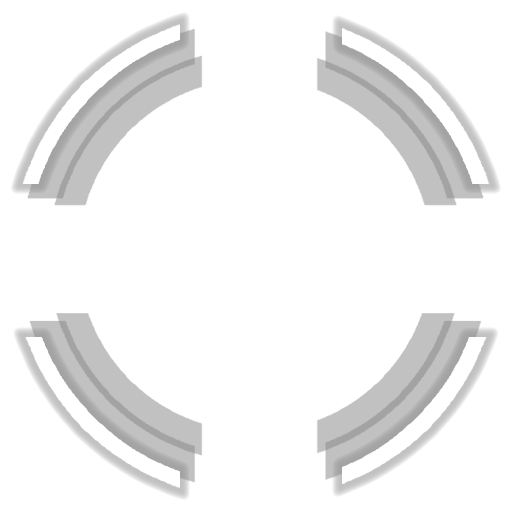
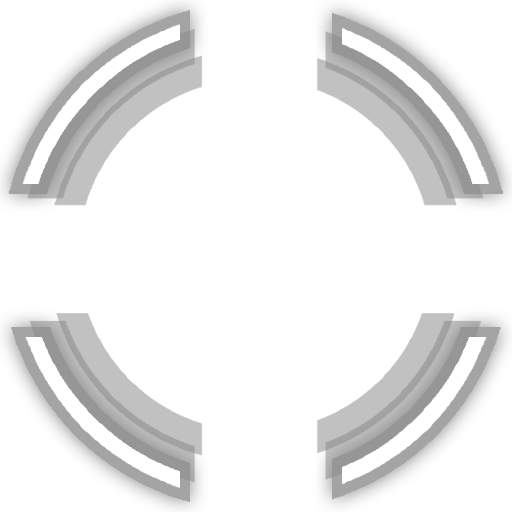
Novo Buraco Negro

diff --git a/Assets/02 Versus/Scripts/BlackHole.cs b/Assets/02 Versus/Scripts/BlackHole.cs
@@ -6,6 +6,18 @@ public class BlackHole : MonoBehaviour
 	public Match match;
 	public GameObject lastSignalPrefab;
 	public BehaviorUpDown[] moviments;
+	public GameObject giraBlackHole1;
+	public GameObject giraBlackHole2;
+	public GameObject giraBlackHole3;
+	public float speedGiroBlackHole1= -50f;
+	public float speedGiroBlackHole2 = 50f;
+	public float speedGiroBlackHole3 = 50f;
+
+	void Update () {
+		giraBlackHole1.transform.Rotate (new Vector3(0,0, Time.deltaTime*speedGiroBlackHole1));
+		giraBlackHole2.transform.Rotate (new Vector3(0,0, Time.deltaTime*speedGiroBlackHole2));
+		giraBlackHole3.transform.Rotate (new Vector3(0,0, Time.deltaTime*speedGiroBlackHole3));
+	}
 
 	public void StopBlackHole()
 	{

diff --git a/Assets/02 Versus/Scripts/BlackHole_Rotation.cs b/Assets/02 Versus/Scripts/BlackHole_Rotation.cs
@@ -1,0 +1,15 @@
+using UnityEngine;
+using System.Collections;
+
+public class BlackHole_ROtation : MonoBehaviour {
+
+	// Use this for initialization
+	void Start () {
+	
+	}
+	
+	// Update is called once per frame
+	void Update () {
+	
+	}
+}
